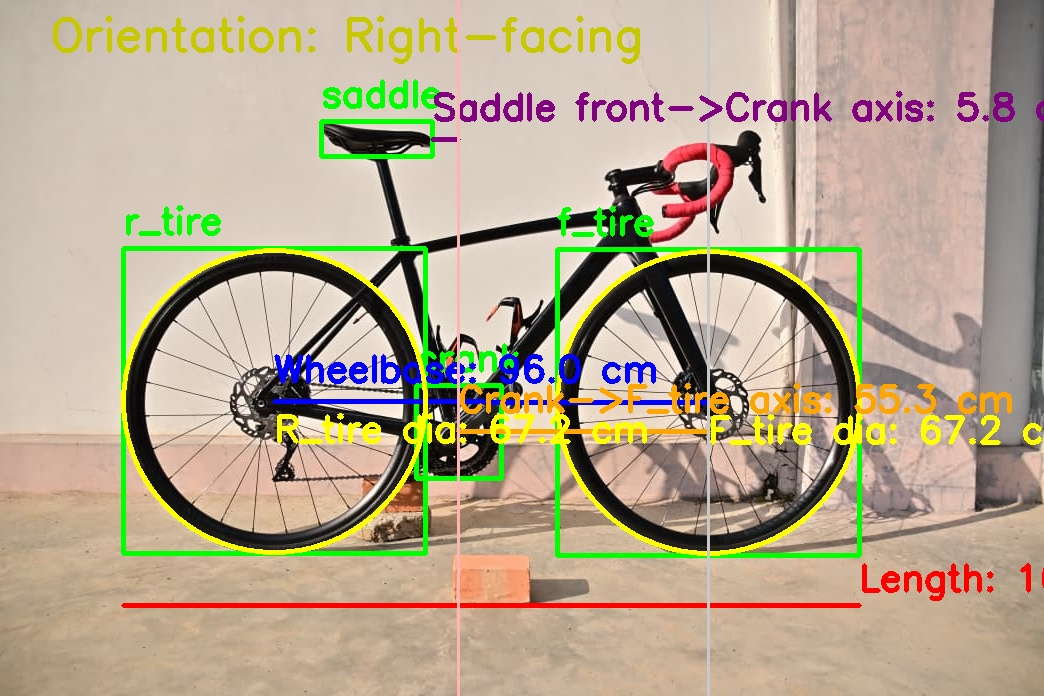
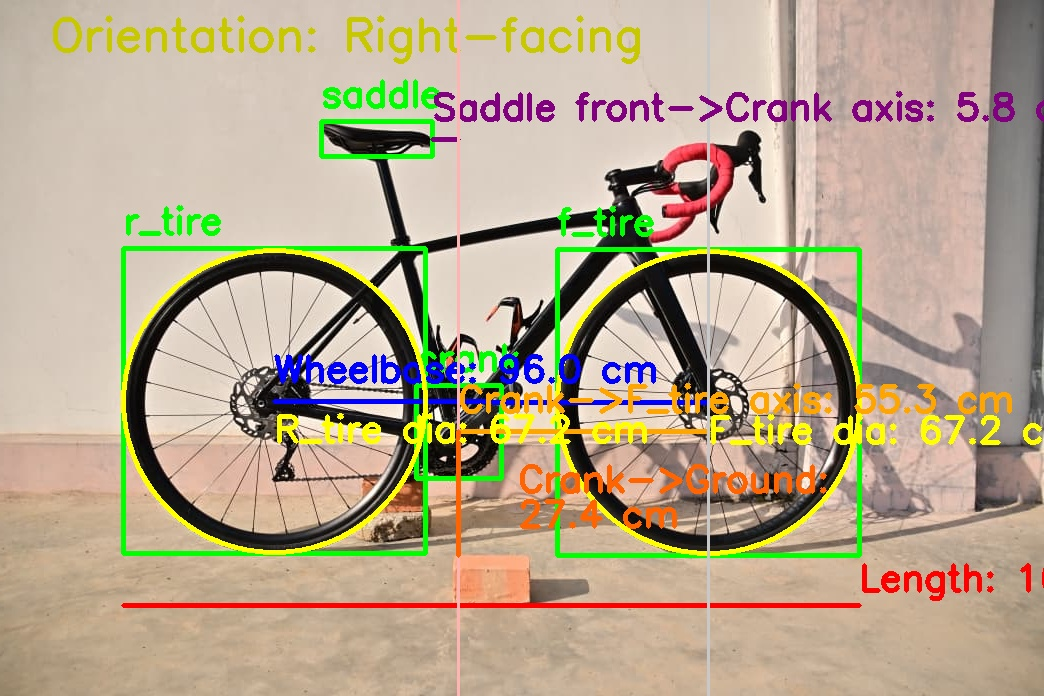
Add crank-to-ground distance measurement and visualization

Changed region(s): [[0.4904, 0.6638, 0.7969, 0.7845], [0.4291, 0.6336, 0.4598, 0.8147]]

diff --git a/predict.py b/predict.py
@@ -158,6 +158,34 @@ for r in results:
             # garis vertikal sumbu crank
             cv2.line(img, (vertical_x, 0), (vertical_x, img.shape[0]), (180, 180, 255), 2)
 
+        # --- Crank ke tanah ---
+        if "crank" in bboxes and "f_tire" in bboxes:
+            x1_c, y1_c, x2_c, y2_c = bboxes["crank"]
+            crank_center = (int((x1_c + x2_c) / 2), int((y1_c + y2_c) / 2))
+
+            x1_f, y1_f, x2_f, y2_f = bboxes["f_tire"]
+            ground_y = int(max(y2_f, y2_f))  # tanah adalah bounding box bawah dari f_tire
+
+            dist_px = abs(crank_center[1] - ground_y)
+            dist_cm = dist_px * scale_cm_per_px
+            print(f"Crank->Ground: {dist_cm:.1f} cm")
+
+            cv2.line(img, crank_center, (crank_center[0], ground_y), (0, 100, 255), 4)
+            label_text = f"Crank->Ground:\n{dist_cm:.1f} cm"
+            for i, line in enumerate(label_text.split("\n")):
+                # Default (left-aligned, large font)
+                cv2.putText(img, line, (crank_center[0] + 60, crank_center[1] + 60 + i*35),
+                            cv2.FONT_HERSHEY_SIMPLEX, 1.2, (0, 100, 255), 3)
+                # Right-aligned, smaller font
+                font_scale = 0.7
+                thickness = 2
+                (text_width, text_height), _ = cv2.getTextSize(line, cv2.FONT_HERSHEY_SIMPLEX, font_scale, thickness)
+                x_right = crank_center[0] + 200  # right edge position
+                x_aligned = x_right - text_width
+                y_aligned = crank_center[1] + 60 + i*25  # smaller vertical spacing
+                cv2.putText(img, line, (x_aligned, y_aligned),
+                            cv2.FONT_HERSHEY_SIMPLEX, font_scale, (0, 100, 255), thickness)
+            
         # --- Diameter ban belakang ---
         if "r_tire" in bboxes:
             x1_r, y1_r, x2_r, y2_r = bboxes["r_tire"]
